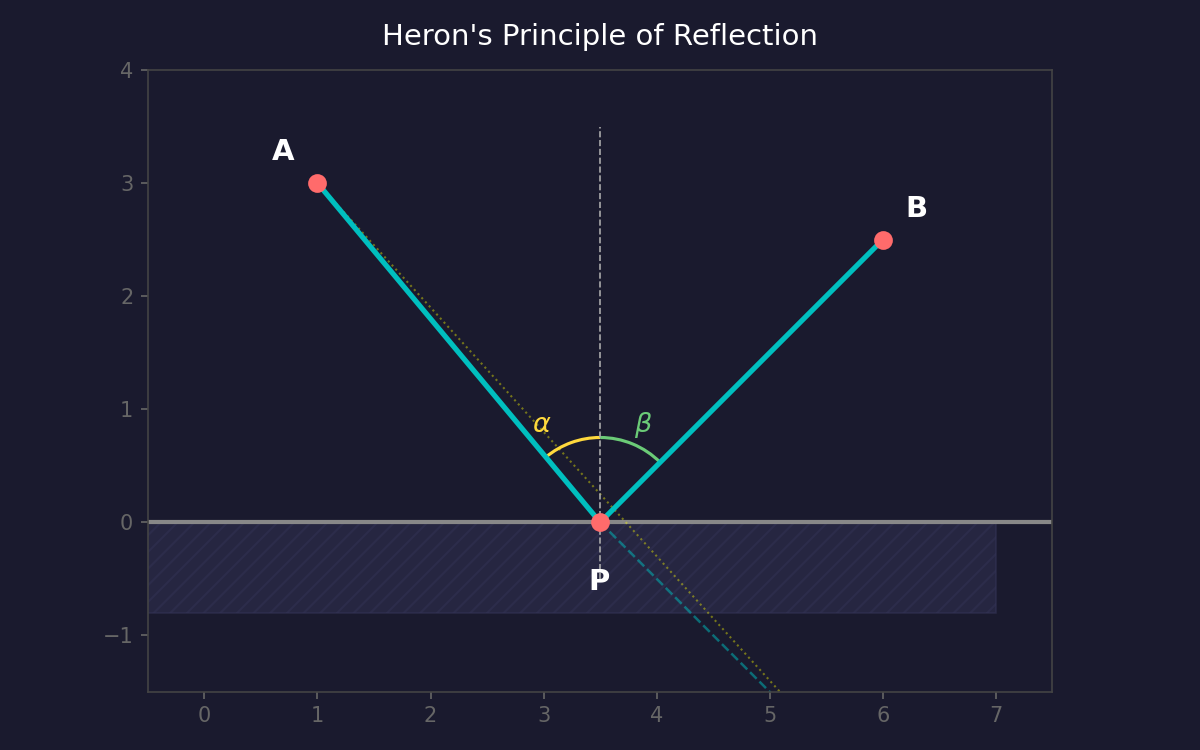
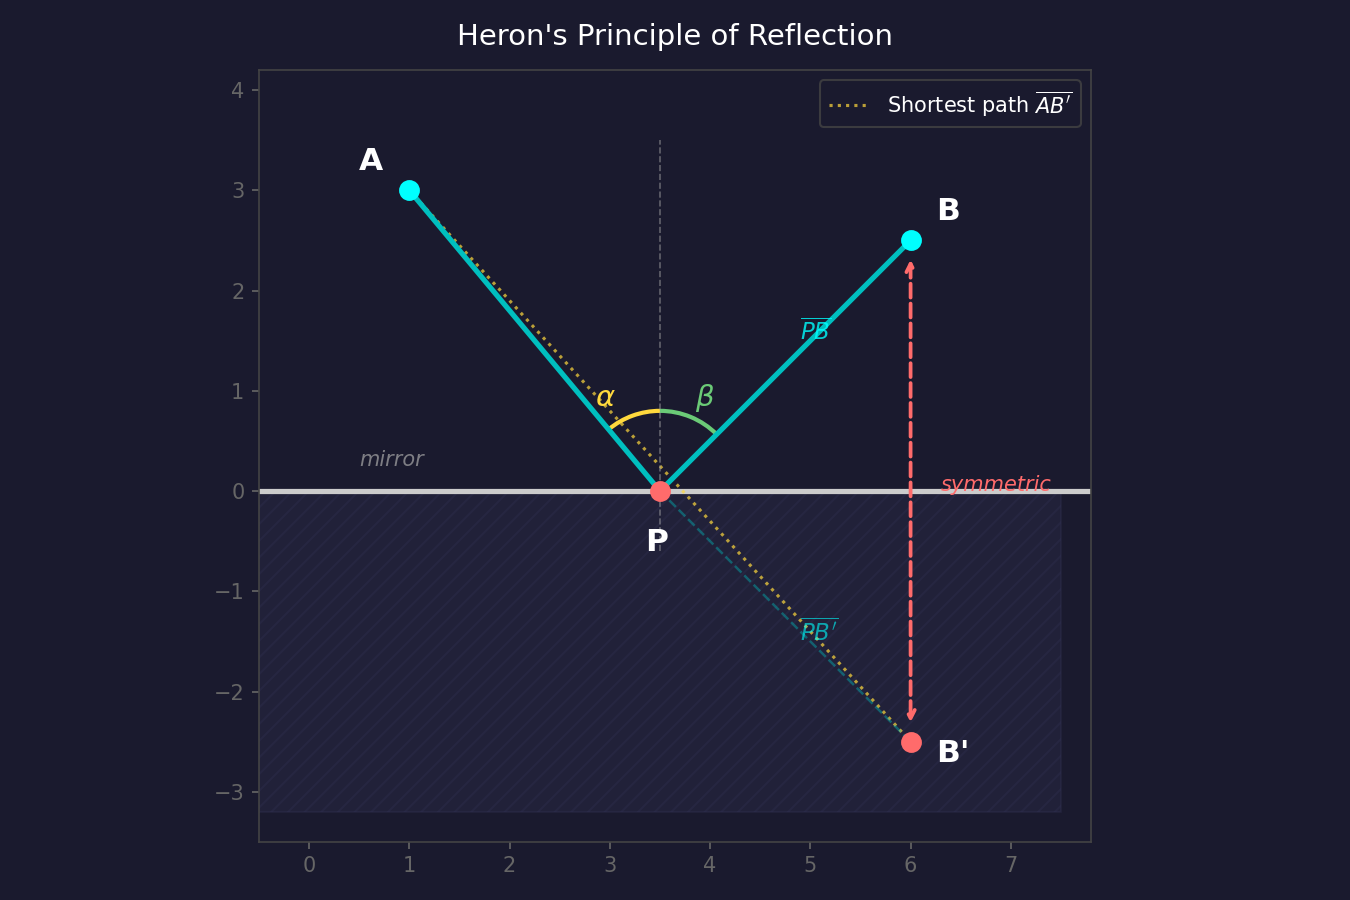
fix: Ch.1 오타/제목 수정, Ch.1·Ch.2 그래프 개선

diff --git a/_posts/2025-03-12-least-action-ch1.md b/_posts/2025-03-12-least-action-ch1.md
@@ -22,7 +22,7 @@ $$\text{where } s = \frac{a+b+c}{2}$$
 
 **헤론의 반사 법칙(Heron's Principle of Reflection)**은 빛의 경로를 최소화하는 방향으로 반사가 일어난다는 것이다. 이 법칙은 굴절과 같은 다른 광학 현상에서 설명되지 않았으나 반사 법칙에 대해 잘 설명되었다.
 
-### 헤론의 반사 법칙의 수학적 증명
+### 헤론의 반사 법칙의 증명
 
 ![헤론의 반사 법칙](/assets/images/least-action/ch1-heron-reflection.png){: .align-center}
 *헤론의 반사 법칙(Heron's Principle of Reflection)*
@@ -32,7 +32,7 @@ $$\text{where } s = \frac{a+b+c}{2}$$
 
 위의 그림과 같이 빛이 A로부터 출발하여 반사면의 P 지점에 도달하여 반사되고, B에 도달한다고 하자. 그리고 B지점이 반사면에 대칭되어 대응되는 지점을 B'이라고 하자. 그렇다면 경로 AP+PB는 AP+PB'과 같다. 왜냐하면 PB = PB'이기 때문이다.
 
-헤론의 반사 법칙(Heron's Principle of Reflection)에 의하면, 빛은 빛의 경로를 최소화하는 방향으로 반사가 일어난다고 하였다. 이때 빛의 경로의 길이를 **광학적 경로 길이(Optical Path Length, OPL)**라고 한다. 따라서, OPL을 최소화하는 문제가 되어야 하므로 OPL AP+PB'는 최소가 되어야 한다. 따라서, AP+B'의 최소 경로는 직선 AB'과 같다.
+헤론의 반사 법칙(Heron's Principle of Reflection)에 의하면, 빛은 빛의 경로를 최소화하는 방향으로 반사가 일어난다고 하였다. 이때 빛의 경로의 길이를 **광학적 경로 길이(Optical Path Length, OPL)**라고 한다. 따라서, OPL을 최소화하는 문제가 되어야 하므로 OPL $\overline{AP}+\overline{PB'}$는 최소가 되어야 한다. 따라서, $\overline{AP}+\overline{PB'}$의 최소 경로는 직선 $\overline{AB'}$과 같다.
 
 즉, 점 P는 직선 AB' 위에 놓여 있으므로, 맞꼭지각에 의해 각도 알파와 감마가 서로 크기 같다. 각도 베타와 감마는 서로 같으므로, 즉, 입사각과 반사각이 같다.
 